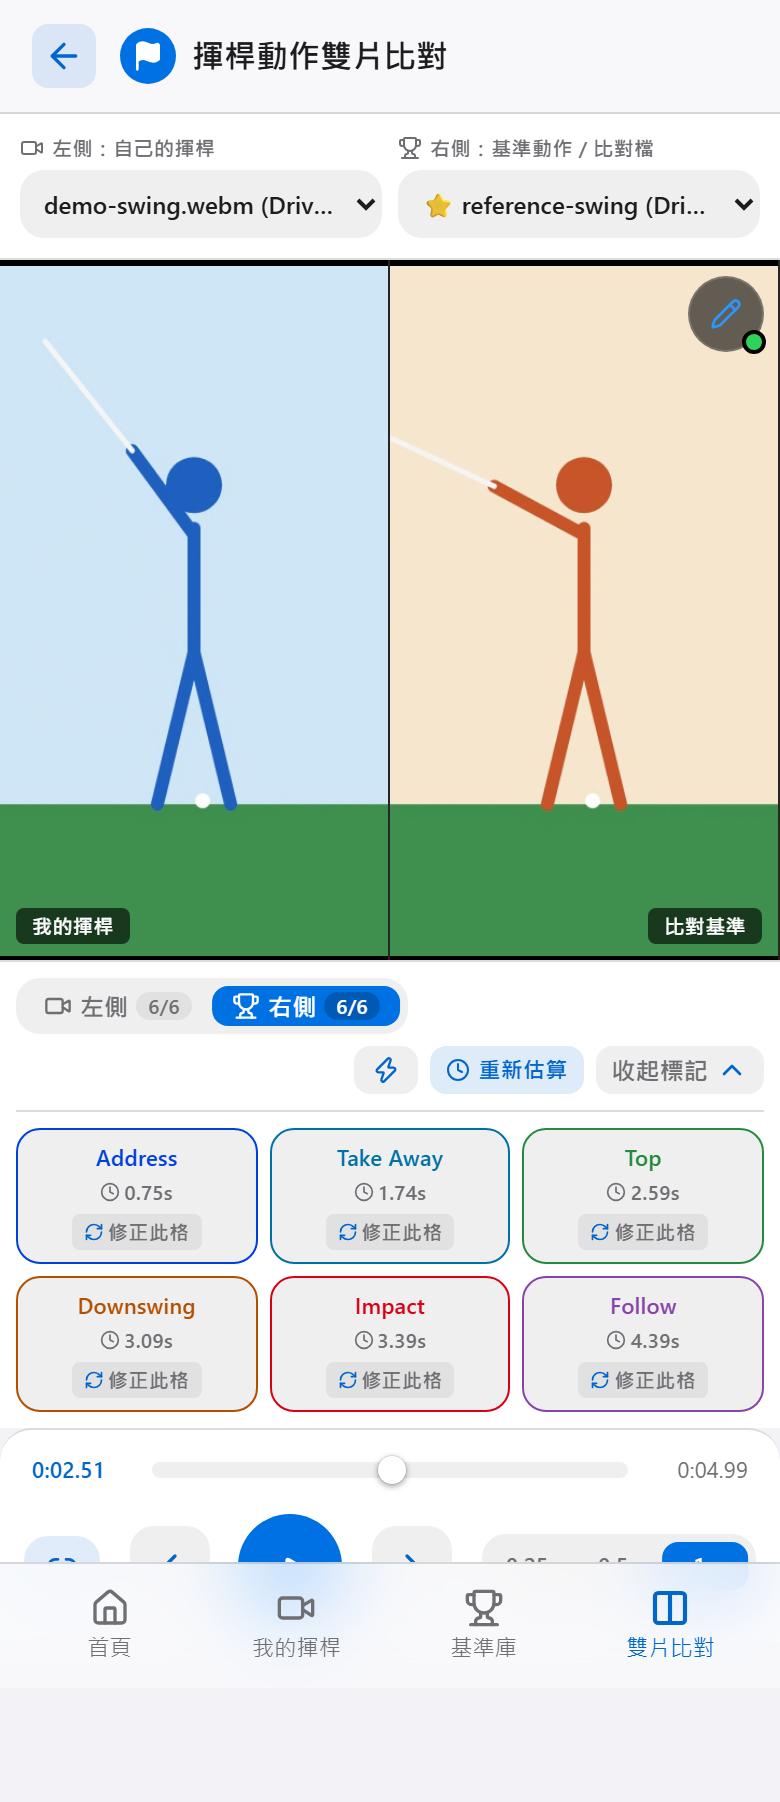
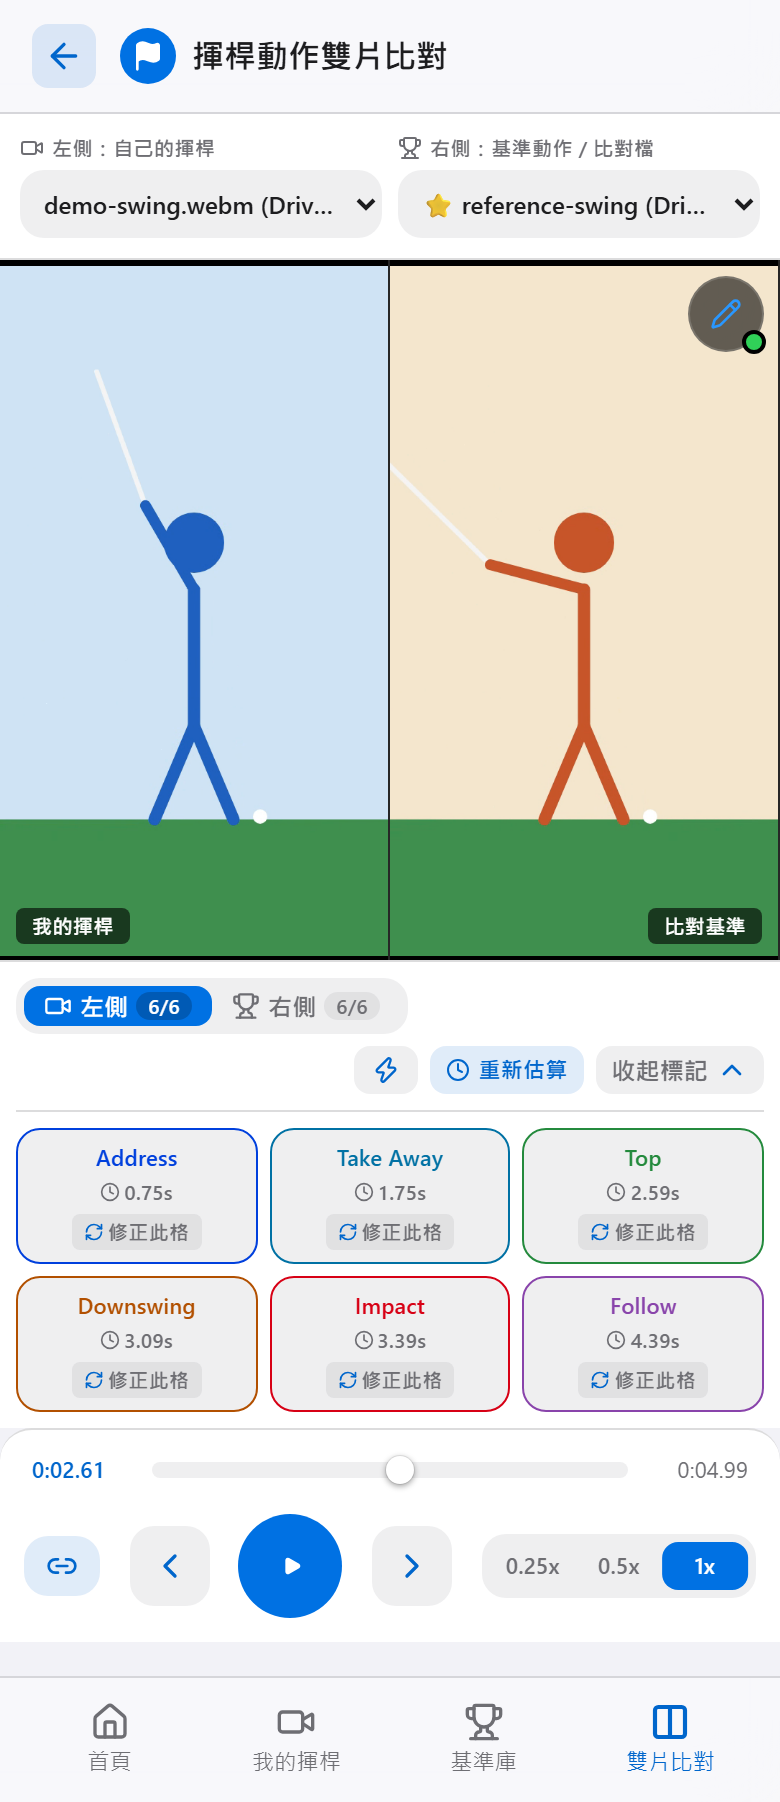
docs(readme): retake screenshots and add captions
The compare screenshot was a full-page capture, so the fixed bottom nav covered the playback controls and left a blank strip below it. Retake all three in a 390x901 viewport so every control is visible and the images line up.

Lay the screenshots out in a table with a title and one-line description under each, and make the alt text more specific.

diff --git a/README.md b/README.md
@@ -4,13 +4,27 @@
 
 > **English summary:** A mobile-first, local-first web app for comparing two golf swing videos side by side. Videos and phase markers stay in the browser's IndexedDB, with no account, cloud storage, or API server. Built with Next.js static export, TypeScript, and Dexie.
 
-<p>
-  <img src="docs/images/home.png" alt="首頁：儲存容量與近期影片" width="240">
-  <img src="docs/images/my-swings.png" alt="我的揮桿：匯入或拍攝影片" width="240">
-  <img src="docs/images/compare.png" alt="雙片比對：同步播放與 6 階段標記" width="240">
-</p>
+<table>
+  <tr>
+    <td align="center" valign="top" width="33%">
+      <img src="docs/images/home.png" alt="首頁畫面：比對與上傳入口、本機儲存容量、近期揮桿影片" width="240"><br>
+      <b>🏠 首頁</b><br>
+      <sub>一鍵開始比對，隨時掌握本機儲存容量與近期影片</sub>
+    </td>
+    <td align="center" valign="top" width="33%">
+      <img src="docs/images/my-swings.png" alt="我的揮桿畫面：選擇球桿與拍攝角度，從相簿匯入或用鏡頭拍攝，下方列出已保存影片" width="240"><br>
+      <b>🎥 我的揮桿</b><br>
+      <sub>選好球桿與拍攝角度，從相簿匯入或直接錄影</sub>
+    </td>
+    <td align="center" valign="top" width="33%">
+      <img src="docs/images/compare.png" alt="雙片比對畫面：左右影片並排，下方為 6 階段標記與播放、逐格、變速控制" width="240"><br>
+      <b>🆚 雙片比對</b><br>
+      <sub>左右同步播放、逐格檢視，點階段標記即可跳轉</sub>
+    </td>
+  </tr>
+</table>
 
-<sub>截圖中的影片是程式產生的火柴人動畫。</sub>
+<sub>畫面中的影片是程式產生的火柴人動畫，階段時間為依比例估算的示範值。</sub>
 
 ---
 
